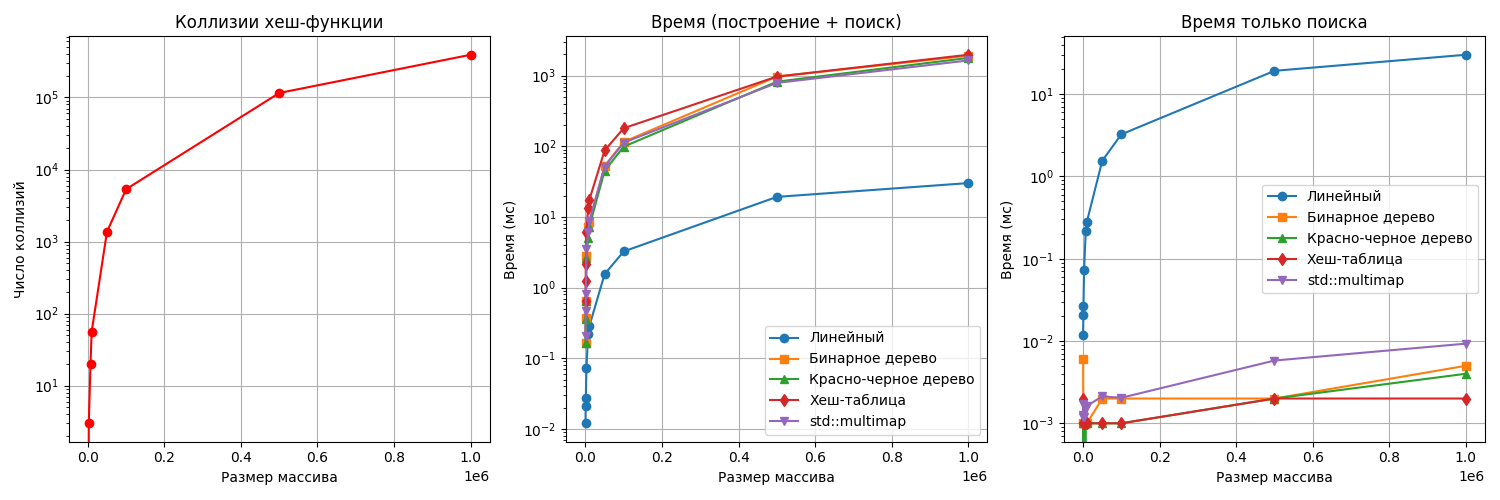
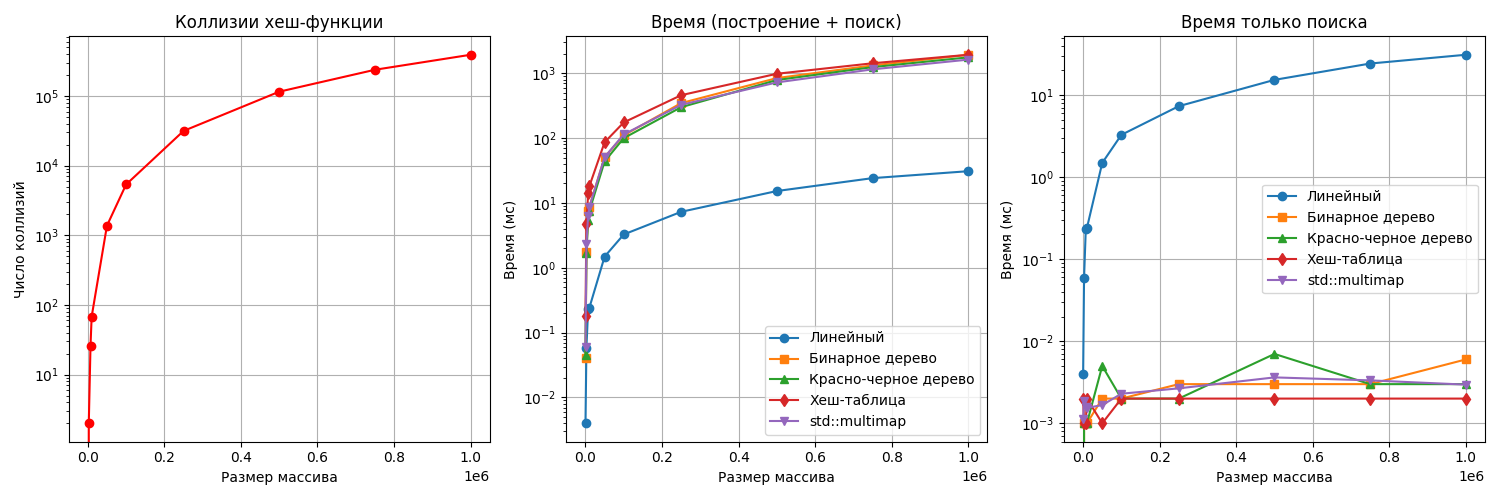
last fix

diff --git a/search.cpp b/search.cpp
@@ -274,36 +274,36 @@ void fix_time_no_fill(const string& filename) {
  */
 int main() {
   fix_time_with_fill("CSV/apartments_100.csv");
-  fix_time_with_fill("CSV/apartments_600.csv");
-  fix_time_with_fill("CSV/apartments_1000.csv");
   fix_time_with_fill("CSV/apartments_2500.csv");
   fix_time_with_fill("CSV/apartments_7000.csv");
   fix_time_with_fill("CSV/apartments_10000.csv");
   fix_time_with_fill("CSV/apartments_50000.csv");
   fix_time_with_fill("CSV/apartments_100000.csv");
+  fix_time_with_fill("CSV/apartments_250000.csv");
   fix_time_with_fill("CSV/apartments_500000.csv");
+  fix_time_with_fill("CSV/apartments_750000.csv");
   fix_time_with_fill("CSV/apartments_1000000.csv");
 
   fix_time_no_fill("CSV/apartments_100.csv");
-  fix_time_no_fill("CSV/apartments_600.csv");
-  fix_time_no_fill("CSV/apartments_1000.csv");
   fix_time_no_fill("CSV/apartments_2500.csv");
   fix_time_no_fill("CSV/apartments_7000.csv");
   fix_time_no_fill("CSV/apartments_10000.csv");
   fix_time_no_fill("CSV/apartments_50000.csv");
   fix_time_no_fill("CSV/apartments_100000.csv");
+  fix_time_no_fill("CSV/apartments_250000.csv");
   fix_time_no_fill("CSV/apartments_500000.csv");
+  fix_time_no_fill("CSV/apartments_750000.csv");
   fix_time_no_fill("CSV/apartments_1000000.csv");
 
   collisions_in_file("CSV/apartments_100.csv");
-  collisions_in_file("CSV/apartments_600.csv");
-  collisions_in_file("CSV/apartments_1000.csv");
   collisions_in_file("CSV/apartments_2500.csv");
   collisions_in_file("CSV/apartments_7000.csv");
   collisions_in_file("CSV/apartments_10000.csv");
   collisions_in_file("CSV/apartments_50000.csv");
   collisions_in_file("CSV/apartments_100000.csv");
+  collisions_in_file("CSV/apartments_250000.csv");
   collisions_in_file("CSV/apartments_500000.csv");
+  collisions_in_file("CSV/apartments_750000.csv");
   collisions_in_file("CSV/apartments_1000000.csv");
   return 0;
 }
